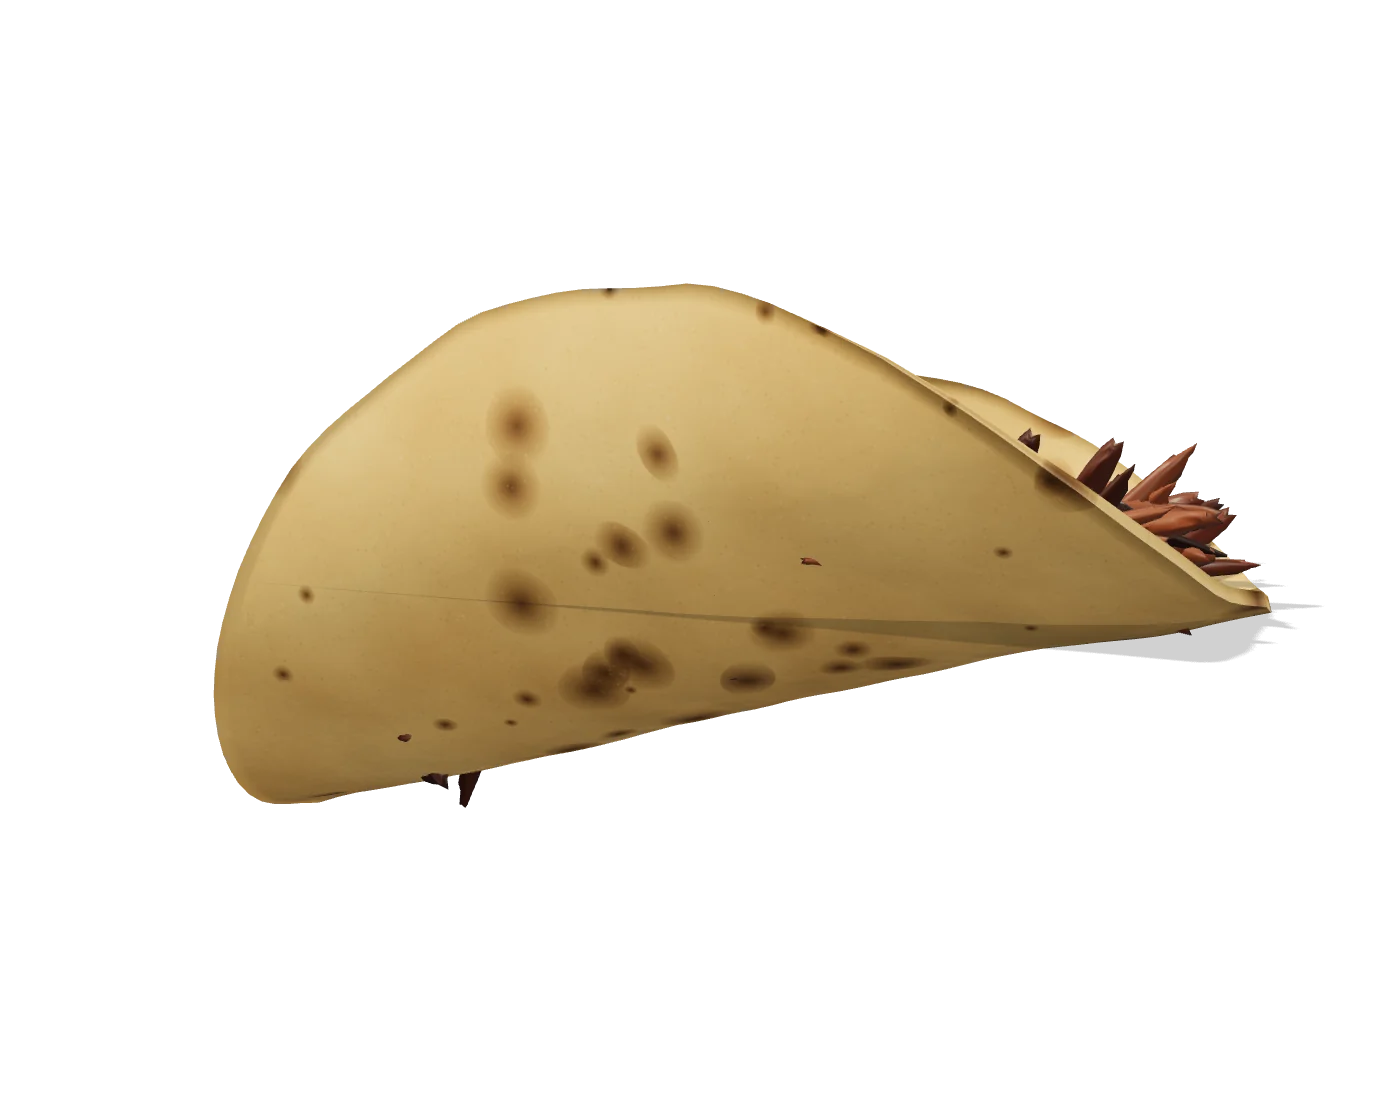
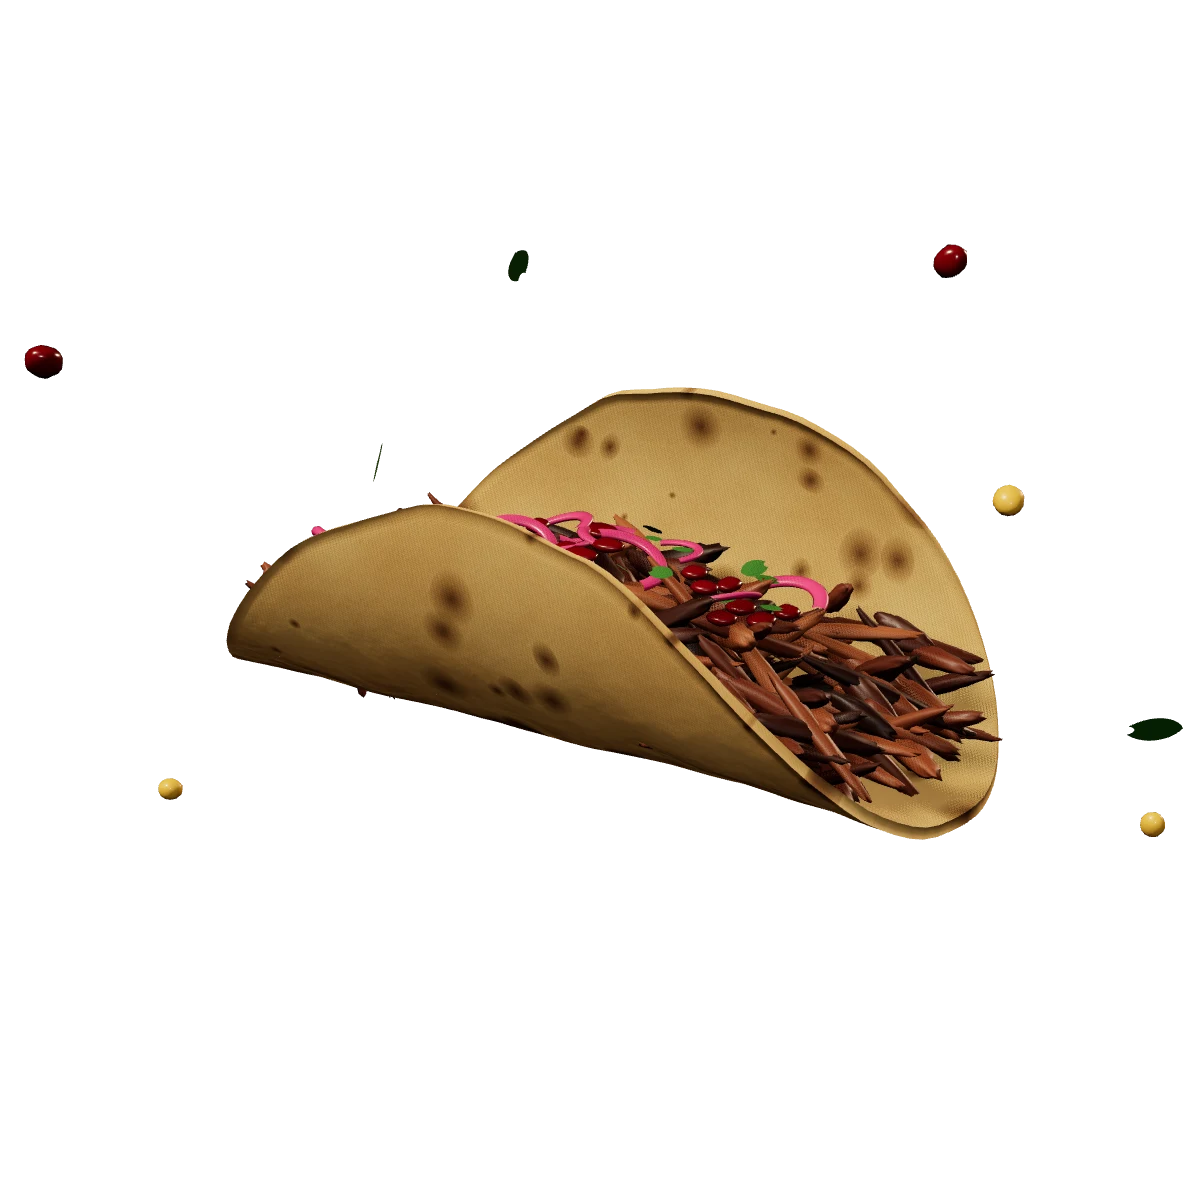
Diseño: hero móvil reordenado, render estático fiel a la escena 3D y detalle de platillo
- El render estático del taco se genera desde la misma escena en vivo (pose,
  cámara y luces): muestra el relleno y el fundido a 3D es imperceptible.
- Móvil: título → taco → texto → botones en el primer pantallazo.
- Detalle de platillo en móvil: la barra anterior/siguiente deja de tapar la
  descripción y se simplifican los adornos.

Claude-Session: https://claude.ai/code/session_013ysZS3sHMV4L5oBot5RWvP

diff --git a/src/three/heroScene.ts b/src/three/heroScene.ts
@@ -8,16 +8,21 @@ const smooth = (a: number, b: number, x: number) => {
   return t * t * (3 - 2 * t);
 };
 
+export interface HeroTacoOptions {
+  /** Estudio: conserva el buffer para capturar el primer cuadro (render estático del hero). */
+  capture?: boolean;
+}
+
 /** Monta la escena del taco del Hero en `el`. Devuelve la limpieza, o null si WebGL falla. */
-export function mountHeroTaco(el: HTMLElement, progress: { current: { p: number } }, onReady: () => void): (() => void) | null {
+export function mountHeroTaco(el: HTMLElement, progress: { current: { p: number } }, onReady: () => void, opts: HeroTacoOptions = {}): (() => void) | null {
   let renderer: THREE.WebGLRenderer;
   try {
-    renderer = new THREE.WebGLRenderer({ antialias: true, alpha: true, powerPreference: 'high-performance' });
+    renderer = new THREE.WebGLRenderer({ antialias: true, alpha: true, powerPreference: 'high-performance', preserveDrawingBuffer: !!opts.capture });
   } catch {
     return null;
   }
-  const lowPower = window.innerWidth < 768 || (navigator.hardwareConcurrency ?? 8) <= 4;
-  renderer.setPixelRatio(Math.min(window.devicePixelRatio, lowPower ? 1.5 : 2));
+  const lowPower = !opts.capture && (window.innerWidth < 768 || (navigator.hardwareConcurrency ?? 8) <= 4);
+  renderer.setPixelRatio(opts.capture ? 1 : Math.min(window.devicePixelRatio, lowPower ? 1.5 : 2));
   renderer.outputColorSpace = THREE.SRGBColorSpace;
   renderer.toneMapping = THREE.ACESFilmicToneMapping;
   renderer.toneMappingExposure = 1.0;
@@ -82,7 +87,7 @@ export function mountHeroTaco(el: HTMLElement, progress: { current: { p: number 
   catcher.rotation.x = -Math.PI / 2;
   catcher.position.y = -1.25;
   catcher.receiveShadow = true;
-  scene.add(catcher);
+  if (!opts.capture) scene.add(catcher);
   taco.traverse((o) => {
     o.castShadow = true;
   });
@@ -94,7 +99,7 @@ export function mountHeroTaco(el: HTMLElement, progress: { current: { p: number 
     renderer.domElement.style.width = `${w}px`;
     renderer.domElement.style.height = `${h}px`;
     cam.aspect = w / Math.max(1, h);
-    cam.position.z = w < h ? 7.4 : 6.2;
+    cam.position.z = w < h * 0.8 ? 7.4 : 6.2;
     cam.updateProjectionMatrix();
   };
   resize();
@@ -122,7 +127,7 @@ export function mountHeroTaco(el: HTMLElement, progress: { current: { p: number 
     raf = requestAnimationFrame(loop);
     if (!visible && !first) return;
     timer.update();
-    const t = timer.getElapsed();
+    const t = opts.capture ? 0 : timer.getElapsed();
     const p = progress.current.p;
     sp += (p - sp) * 0.12;
     pointer.x += (pointer.tx - pointer.x) * 0.05;

diff --git a/src/pages/home/home.css b/src/pages/home/home.css
@@ -130,18 +130,20 @@
   opacity: 1;
 }
 .hero-taco__fallback {
+  /* mismo encuadre que el canvas: FOV vertical fijo ⇒ cover sobre un render cuadrado */
   position: absolute;
-  inset: 12% 8%;
-  width: 84%;
-  height: 76%;
-  object-fit: contain;
+  inset: 0;
+  width: 100%;
+  height: 100%;
+  object-fit: cover;
   transition: opacity 0.6s var(--ease-out);
-  filter: drop-shadow(0 30px 30px rgba(22, 20, 18, 0.22));
 }
 .hero-taco.is-ready .hero-taco__fallback {
   opacity: 0;
 }
 .hero-taco.is-lite .hero-taco__fallback {
+  left: -6%;
+  scale: 1.18;
   animation: taco-float 6s ease-in-out infinite;
 }
 @keyframes taco-float {
@@ -277,8 +279,50 @@
     left: auto;
     right: 2%;
   }
+  /* móvil: título → taco → texto → botones, para que el plato entre en el primer pantallazo */
+  .hero__inner {
+    gap: 0;
+    padding-block: 8px 20px;
+    align-content: start;
+  }
+  .hero__copy {
+    display: contents;
+  }
+  .hero__eyebrow {
+    order: 1;
+    margin-bottom: 14px;
+  }
+  .hero__title {
+    order: 2;
+    position: relative;
+    z-index: 3;
+  }
+  .hero__visual {
+    order: 3;
+    height: min(86vw, 440px);
+    margin-top: -4px;
+  }
+  .hero__plate {
+    width: min(70vw, 400px);
+  }
+  .hero__sub {
+    order: 4;
+    position: relative;
+    z-index: 3;
+    margin-bottom: 18px;
+  }
+  .hero__ctas {
+    order: 5;
+    position: relative;
+    z-index: 3;
+    flex-wrap: nowrap;
+  }
   .hero__ctas .btn {
-    flex: 1 1 100%;
+    flex: 1 1 auto;
+    padding-inline: 18px;
+  }
+  .hero__ctas .btn--primary {
+    flex-grow: 1.6;
   }
 }
 @media (min-width: 900px) {

diff --git a/src/studio/main.ts b/src/studio/main.ts
@@ -16,6 +16,30 @@ const slug = q.get('dish') ?? 'taco-de-short-rib';
 const w = Number(q.get('w') ?? 1080);
 const h = Number(q.get('h') ?? 1350);
 
+if (slug === 'taco-hero') {
+  // El render estático del hero sale de la misma escena en vivo (pose, cámara y luces idénticas).
+  const box = document.createElement('div');
+  box.style.cssText = `position:relative;width:${w}px;height:${h}px`;
+  document.body.appendChild(box);
+  import('@/three/heroScene')
+    .then(({ mountHeroTaco }) => {
+      const stop = mountHeroTaco(
+        box,
+        { current: { p: 0 } },
+        () => {
+          const canvas = box.querySelector('canvas')!;
+          window.__capture = (type = 'image/webp', quality = 0.9) => canvas.toDataURL(type, quality);
+          window.__done = true;
+        },
+        { capture: true },
+      );
+      if (!stop) throw new Error('WebGL no disponible');
+    })
+    .catch((e) => {
+      window.__error = String((e as Error)?.stack ?? e);
+      window.__done = true;
+    });
+} else
 try {
   const spec = buildScene(slug);
   const transparent = !!spec.transparent;

diff --git a/src/components/HeroTaco.tsx b/src/components/HeroTaco.tsx
@@ -52,7 +52,7 @@ export function HeroTaco({ progress, className }: { progress: React.MutableRefOb
   const staticMode = reduced || failed || lite;
   return (
     <div className={cx('hero-taco', className, ready && !staticMode && 'is-ready', lite && !reduced && 'is-lite')} ref={wrap} role="img" aria-label="Taco de short rib con cebolla encurtida y salsa de chile morita, en 3D.">
-      <img src={fallback} alt="" aria-hidden width={1400} height={1100} fetchPriority="high" decoding="async" className={cx('hero-taco__fallback', staticMode && 'is-static')} />
+      <img src={fallback} alt="" aria-hidden width={1200} height={1200} fetchPriority="high" decoding="async" className={cx('hero-taco__fallback', staticMode && 'is-static')} />
     </div>
   );
 }

diff --git a/src/pages/menu/menu.css b/src/pages/menu/menu.css
@@ -480,14 +480,22 @@ body:has(.site-header:not(.is-hidden)) .menu-tabs {
 }
 @media (max-width: 640px) {
   .dish-nav {
-    position: sticky;
-    bottom: 0;
-    z-index: 30;
-    background: var(--nixtamal);
-    padding-block: 12px;
+    padding-block: 20px;
   }
   .dish-nav__link {
     font-size: 0.95rem;
+  }
+}
+@media (max-width: 1023px) {
+  .dish-greca {
+    display: none;
+  }
+  .dish-stage__ring {
+    inset: -6%;
+  }
+  .dish-stage__tiles {
+    right: -4%;
+    width: 18%;
   }
 }
 
